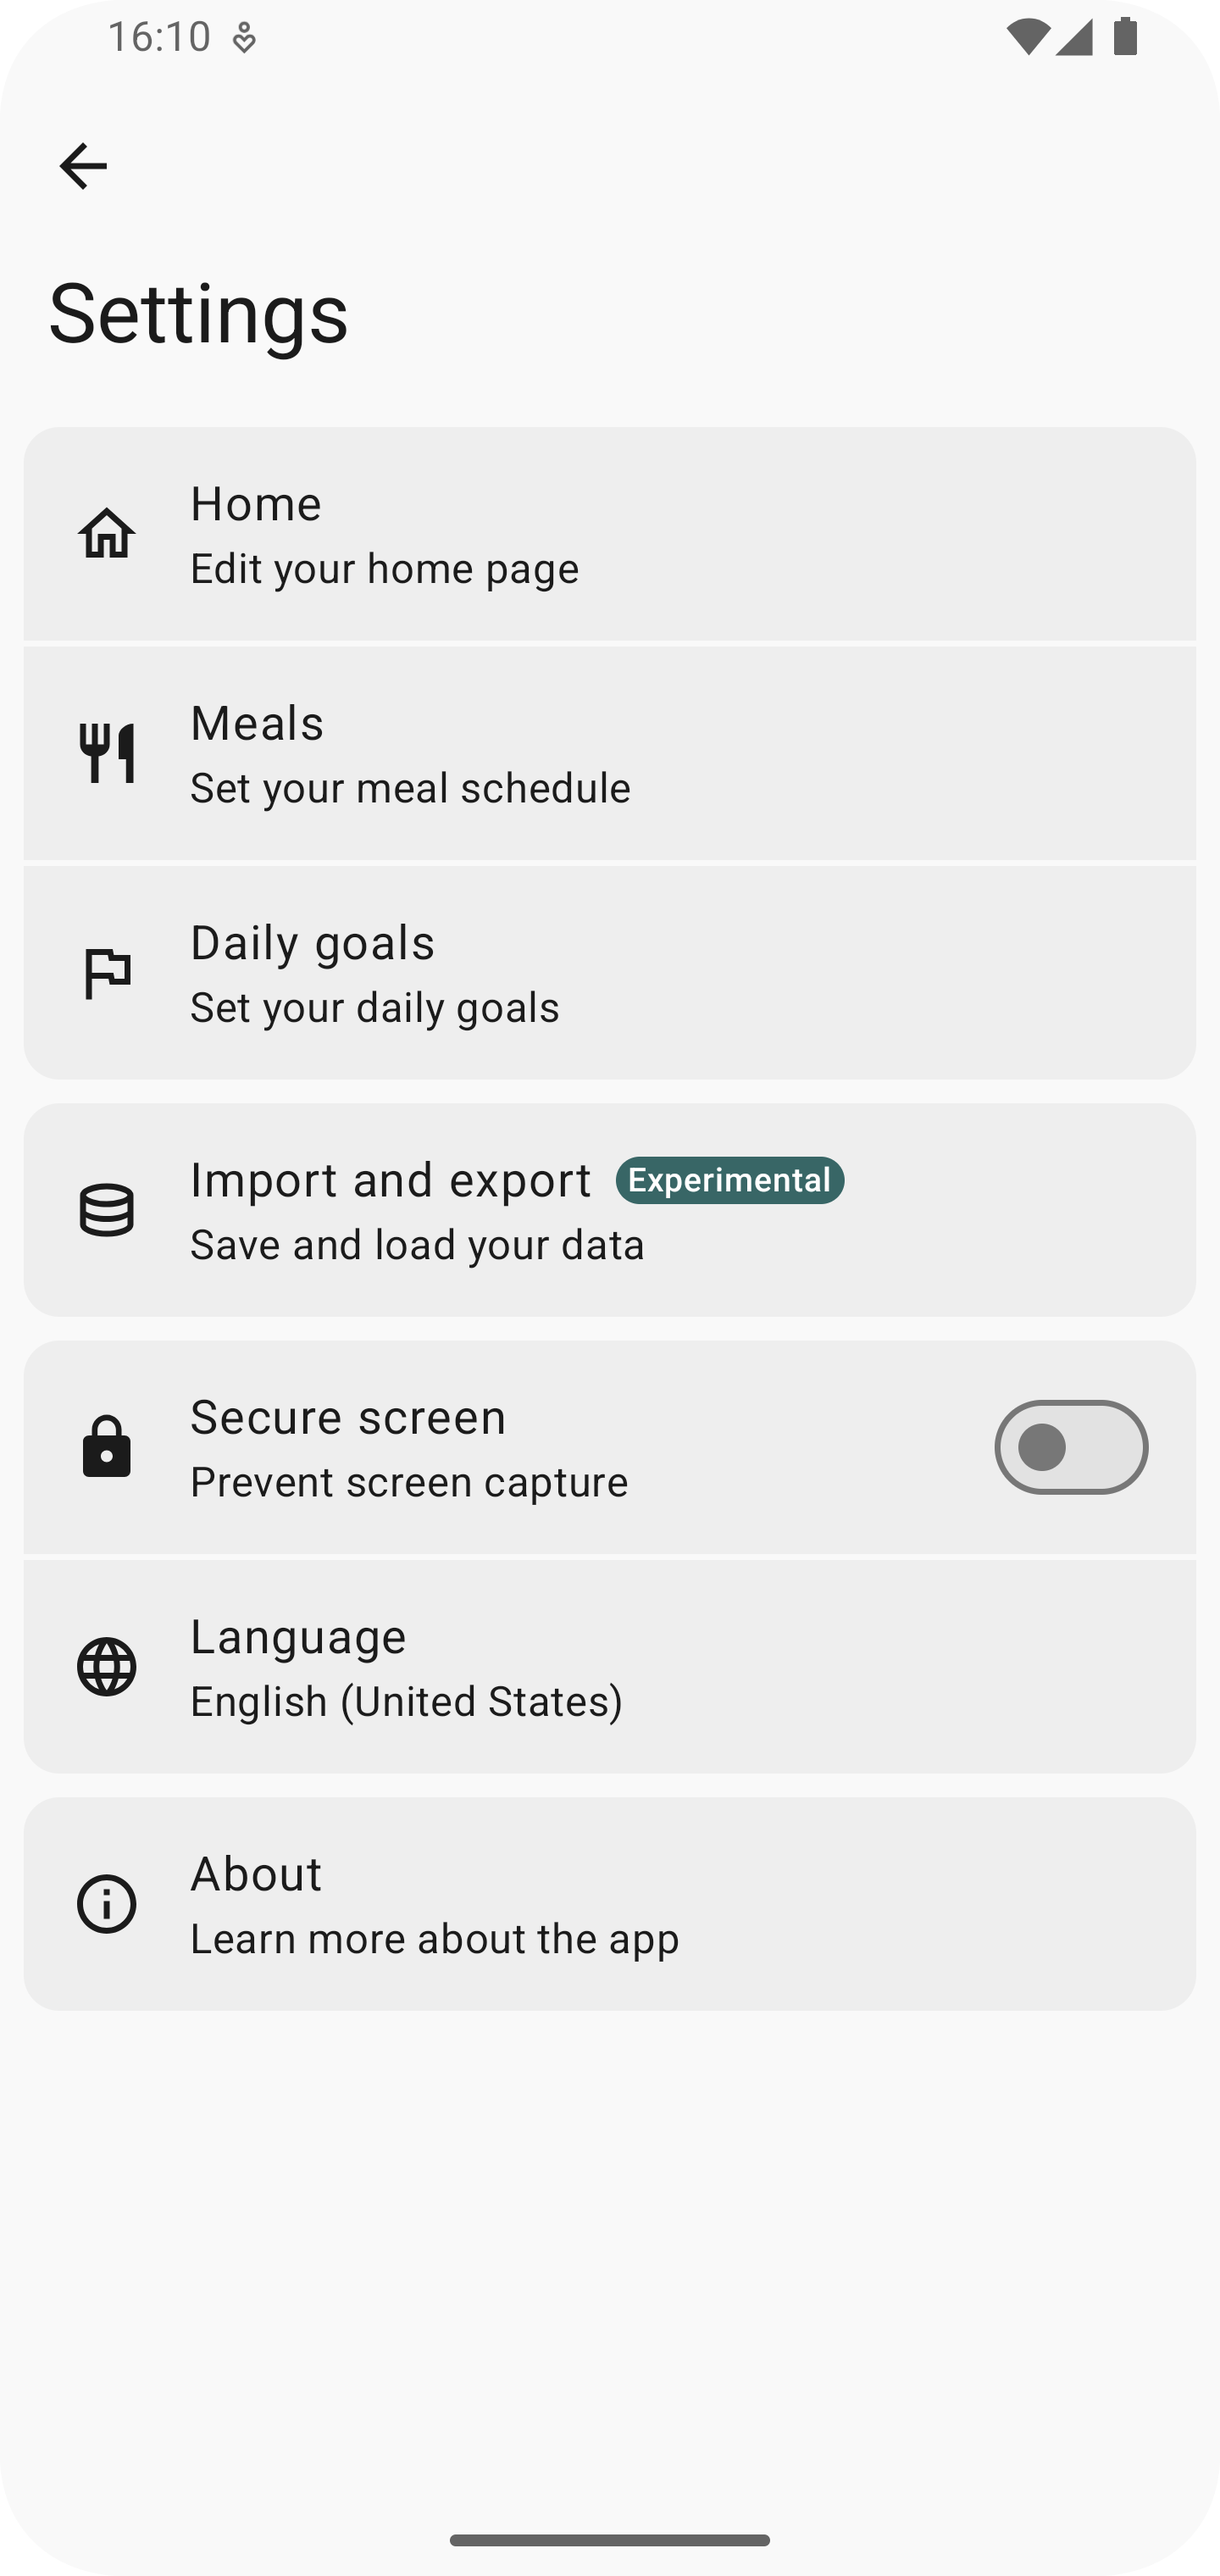
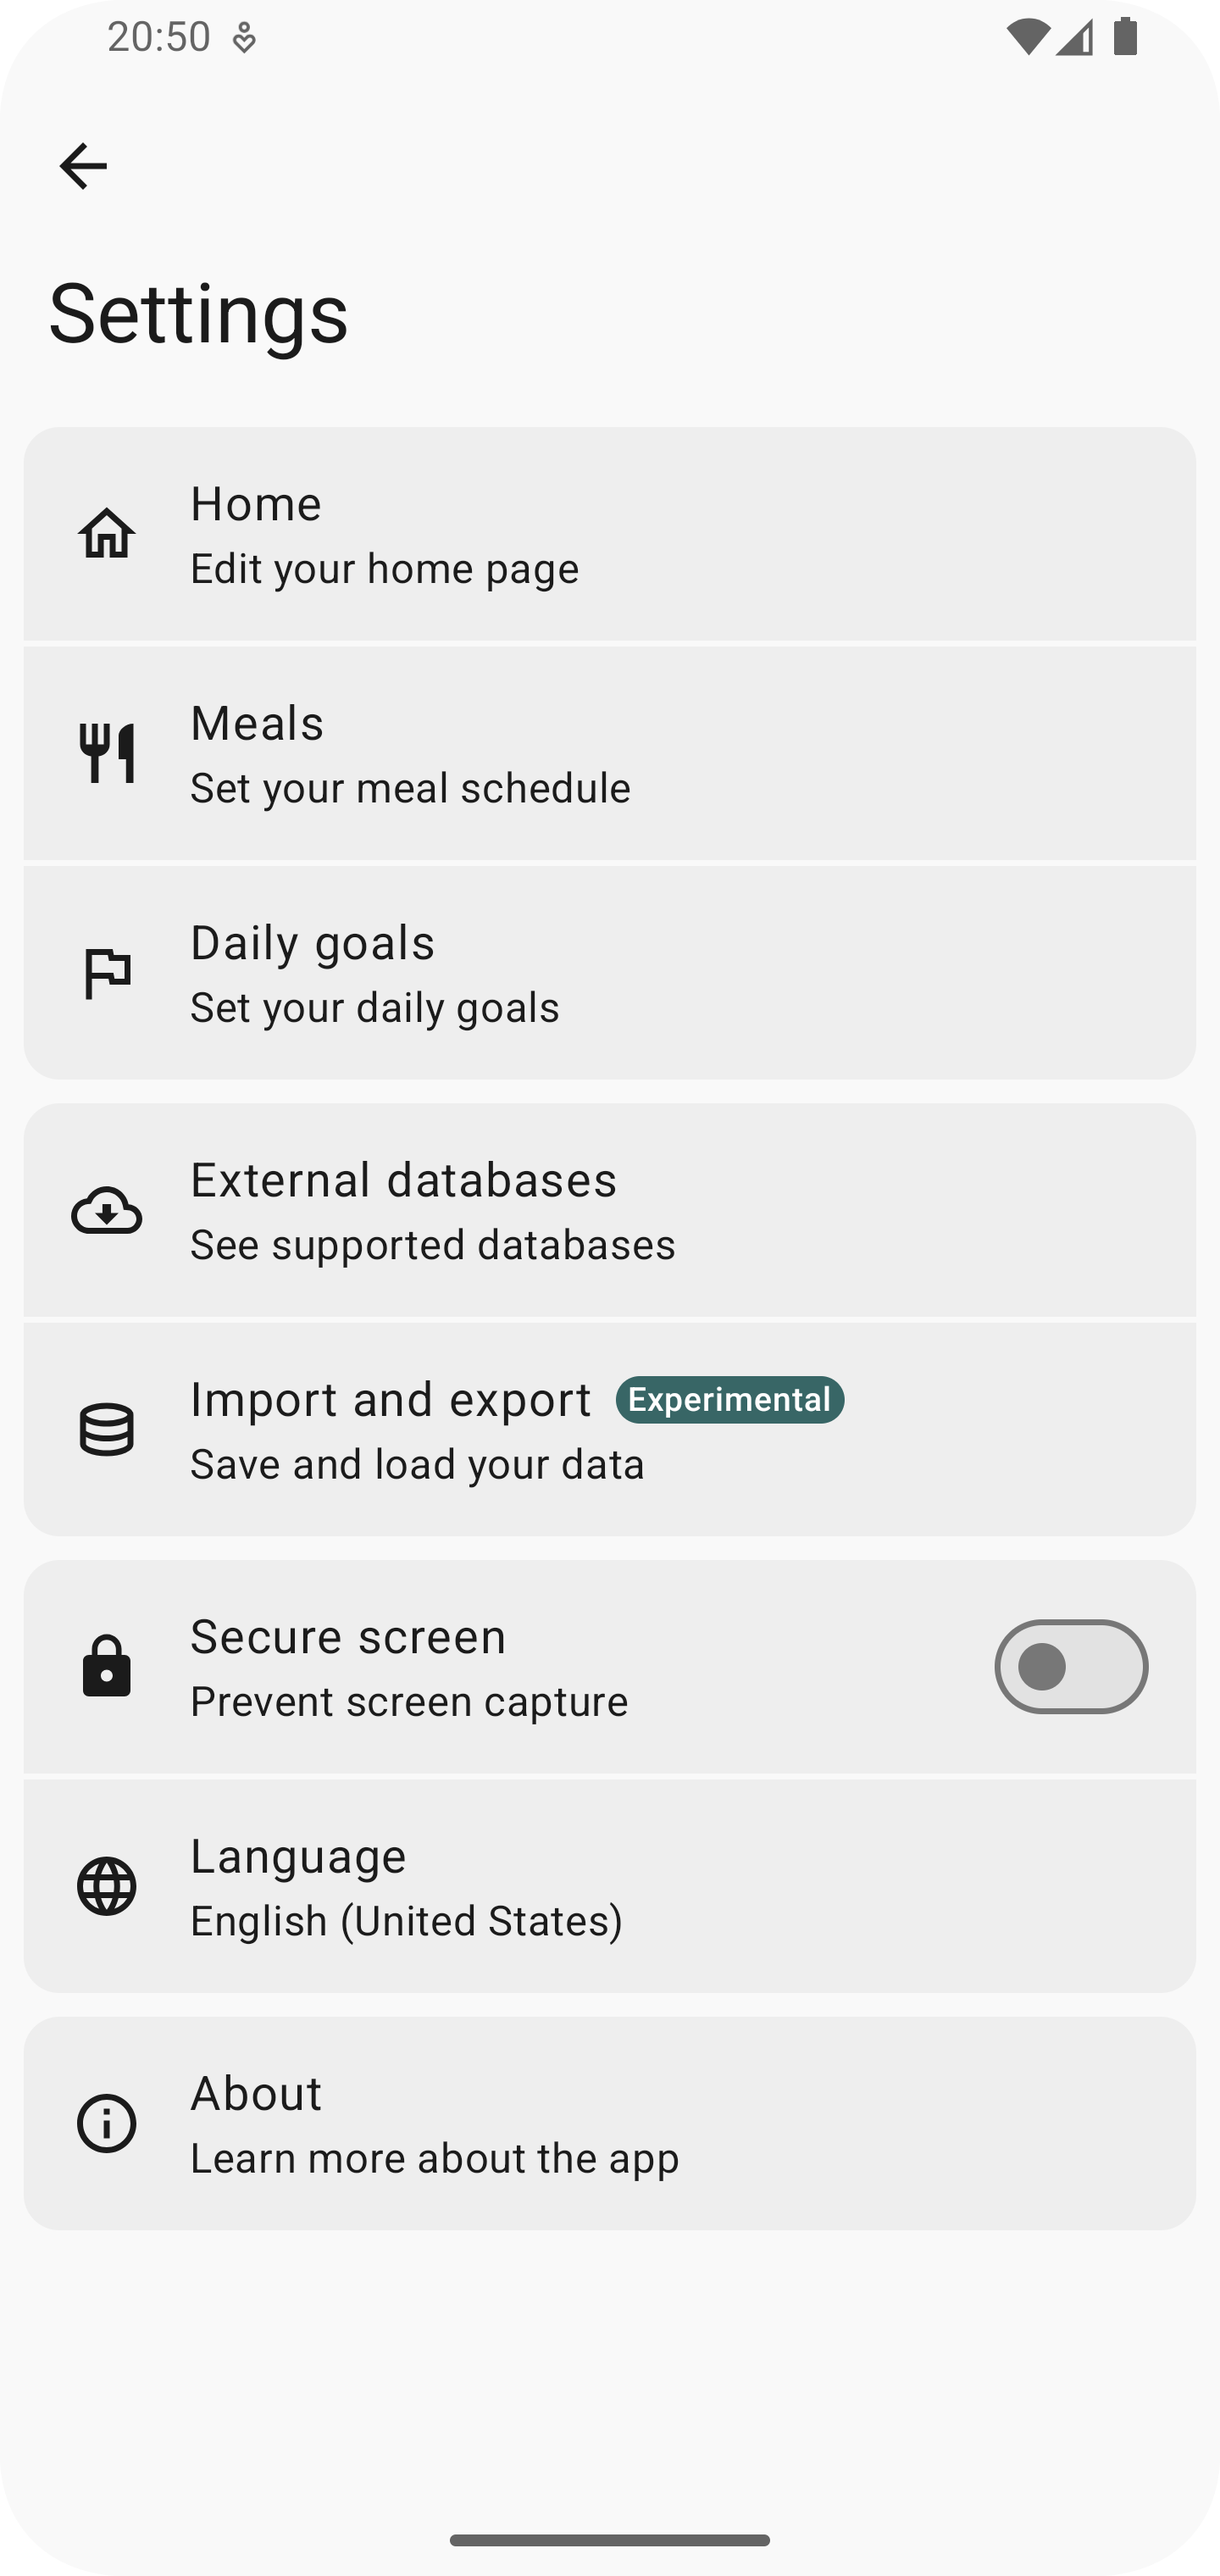
chore: release 2.7.0 (#141)

diff --git a/app/src/commonMain/kotlin/com/maksimowiczm/foodyou/feature/changelog/Changelog.kt b/app/src/commonMain/kotlin/com/maksimowiczm/foodyou/feature/changelog/Changelog.kt
@@ -15,7 +15,7 @@ import org.jetbrains.compose.resources.stringResource
 object Changelog {
     val versions
         get() = listOf(
-            next,
+            v2_7_0,
             v2_6_0,
             v2_5_0,
             v2_4_0,
@@ -28,18 +28,19 @@ object Changelog {
             v2_0_0
         )
 
-    val next = Version.next(
+    val v2_7_0 = Version(
+        version = "2.7.0",
+        date = LocalDate(2025, 6, 10),
         newFeatures = listOf(
+            "Added new mineral - Chromium",
             "Added FoodData Central (USDA) support. You can now download product data from new remote database.",
             "Added Swiss Food Composition Database support",
             "Added external databases settings screen to manage remote databases"
         ),
-        changes = listOf(),
         bugFixes = listOf(
             "Stop overriding calories value when updating product or downloading product data from remote databases"
         ),
-        translations = listOf(),
-        notes = null
+        notes = "Even the best food tracking app is useless without a good database of food products. This update adds support for two new databases: FoodData Central (USDA) and the Swiss Food Composition Database."
     )
 
     val v2_6_0 = Version(
